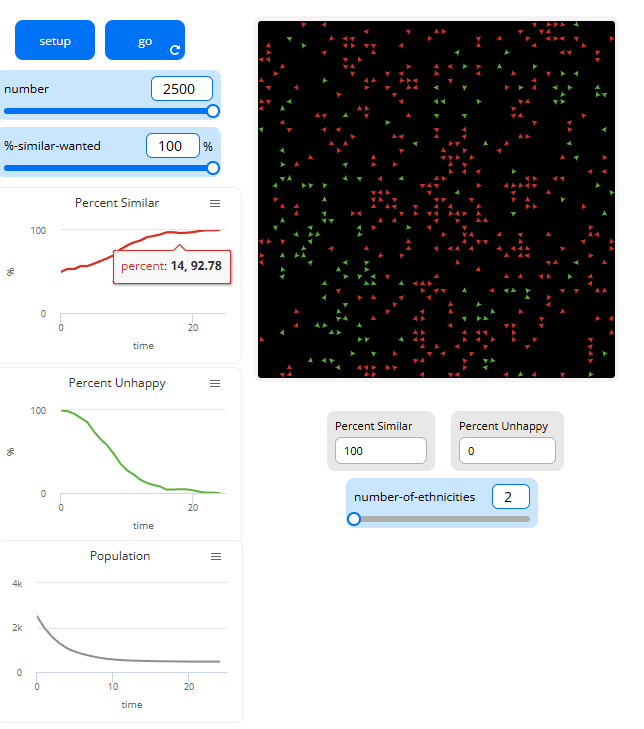
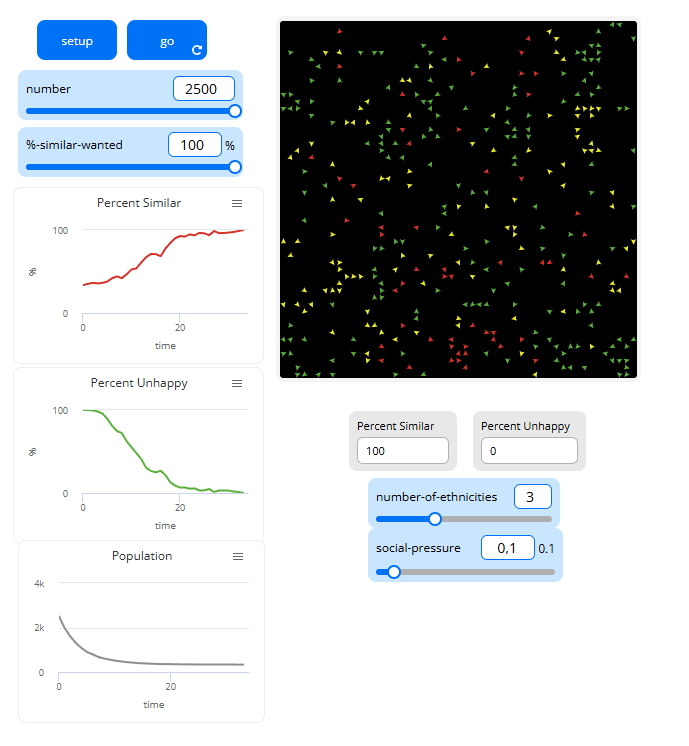
lb2 fix

diff --git a/lb2/LB2_Yarovoy_Valerii_SPm_24-1.md b/lb2/LB2_Yarovoy_Valerii_SPm_24-1.md
@@ -15,7 +15,8 @@
 
 
 ### 1. Нові змінні
-У моделі додано нову змінну для кожного агента:
+
+- **social-pressure** глобальна змінна соціаільного тиску яка впливає на шанс зникання агента.
 
 - **vanish-prob** (turtles-own) — ймовірність зникнення агента на даному кроці.
 
@@ -69,8 +70,11 @@ to update-vanish-prob
     ]
 
     set vanish-prob diff-share * foreign-strength
+    set vanish-prob vanish-prob * (1 + social-pressure)
+    set vanish-prob min list vanish-prob 1
   ]
 end
+
 
 
 
@@ -93,3 +97,56 @@ end
 
 
 ![alt text](image.png)
+
+
+Оцінити, як кількість агентів у просторі впливає на динаміку досягнення стабільності та процент схожості.
+
+Залишимо 3 группи та процент схожості 50%
+
+
+<table border="1" cellpadding="6" cellspacing="0">
+  <thead>
+    <tr>
+      <th>Кількість агентів</th>
+      <th>Кількість тактів</th>
+      <th>Процент схожості (%)</th>
+      <th>Остаточна кількість агентів</th>
+    </tr>
+  </thead>
+  <tbody>
+    <tr>
+      <td>500</td>
+      <td>7</td>
+      <td>100</td>
+      <td>376</td>
+    </tr>
+    <tr>
+      <td>1000</td>
+      <td>7</td>
+      <td>99,25</td>
+      <td>560</td>
+    </tr>
+    <tr>
+      <td>1500</td>
+      <td>9</td>
+      <td>99,4</td>
+      <td>660</td>
+    </tr>
+    <tr>
+      <td>2000</td>
+      <td>8</td>
+      <td>99,74</td>
+      <td>760</td>
+    </tr>
+    <tr>
+      <td>2500</td>
+      <td>8</td>
+      <td>99,67</td>
+      <td>890</td>
+    </tr>
+  </tbody>
+</table>
+
+Зі збільшенням початкової кількості агентів у моделі спостерігається суттєвий спад їх остаточної кількості. Попри те, що система швидко досягає стабільного стану (7–9 тактів) і характеризується дуже високим рівнем схожості агентів (понад 99%), значна частина агентів зникає в процесі моделювання. Це свідчить про те, що зі зростанням щільності популяції посилюється конкуренція за сприятливе соціальне середовище та вплив соціального тиску, що призводить до витіснення менш адаптованих агентів із системи.
+
+![alt text](image-1.png)
